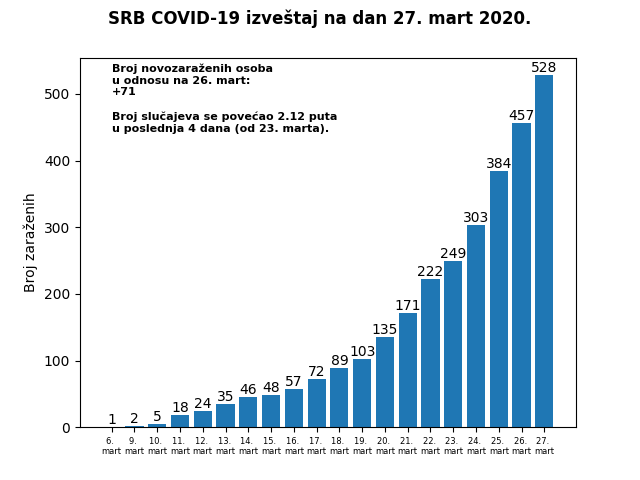
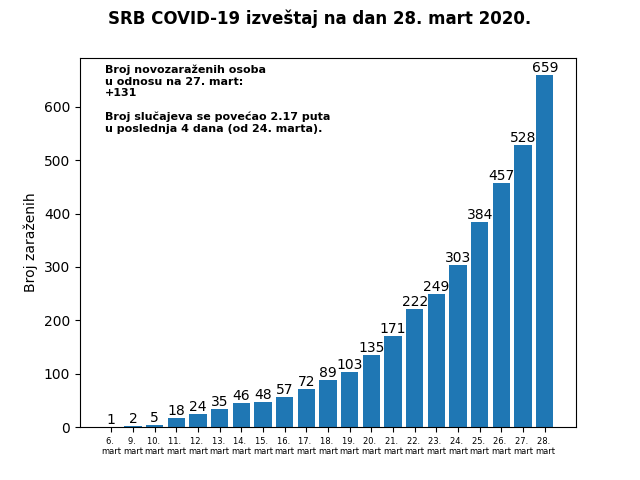
Refactored text position; added input for link number

diff --git a/main.py b/main.py
@@ -125,8 +125,21 @@ links = list()
 for a in hrefs:
     links.append("https://www.zdravlje.gov.rs/" + a['href'])
 
+# Prompt for link number
+logging.info("Prompting for link number...")
+for i, print_link in enumerate(links):
+    print(f"{i}. {print_link}")
+
+while True:
+    choose_link = int(input("Enter the link number from above, "
+                            "with 'informacije o' text in it: "))
+
+    if not choose_link > len(links) - 1:
+        break
+logging.info("Link number successfully entered!")
+
 # Get page from latest link and parse latest page
-source_link = requests.get(links[0]).text
+source_link = requests.get(links[choose_link]).text
 
 soup_link = BeautifulSoup(source_link, 'lxml')
 
@@ -176,12 +189,6 @@ if "Информације" in tts_content.find('h1', class_='col-xs-12').text:
                 plt.suptitle(f'SRB COVID-19 izveštaj na dan {day}.'
                              f' mart 2020.', fontsize=12,
                              fontweight='bold')
-                # TODO: Fix text_top_h value generation
-                text_top_h = int(cases) - 30
-                plt.text(0, text_top_h, f'Broj novozaraženih osoba \nu '
-                                        f'odnosu na {int(day)-1}. mart:'
-                                        f'\n+{cases - last_value}',
-                                        fontsize=8, fontweight='bold')
                 for rect in bar:
                     height = rect.get_height()
                     plt.text(rect.get_x() + rect.get_width()/2.0,
@@ -199,15 +206,21 @@ if "Информације" in tts_content.find('h1', class_='col-xs-12').text:
                 double_date_number = int(double_date_number_list[0])
 
                 double_coeff = determine_coeff_dict["coefficient"]
-                # TODO: Fix text_bottom_h value generation
-                text_bottom_h = text_top_h - 55
-                plt.text(0, text_bottom_h,
-                         f"Broj slučajeva se povećao "
-                         f"{double_coeff} puta \nu poslednja "
-                         f"{int(day)-double_date_number} "
-                         f"dana (od {double_date}a)."
-                         , fontsize=8, fontweight='bold'
+
+                # Put additional info as text on the plot
+                plt.text(0.05, 0.8,
+                         f'Broj novozaraženih osoba'
+                         f'\nu odnosu na {int(day)-1}. mart:'
+                         f'\n+{cases - last_value}'
+                         f'\n\nBroj slučajeva se povećao'
+                         f' {double_coeff} puta'
+                         f'\nu poslednja'
+                         f' {int(day)-double_date_number}'
+                         f' dana (od {double_date}a).',
+                         fontsize=8, fontweight='bold',
+                         transform=plt.gca().transAxes
                          )
+
                 plt.savefig("Poslednji_izveštaj.png")
                 logging.info("Successfully visualized JSON data!")
 
